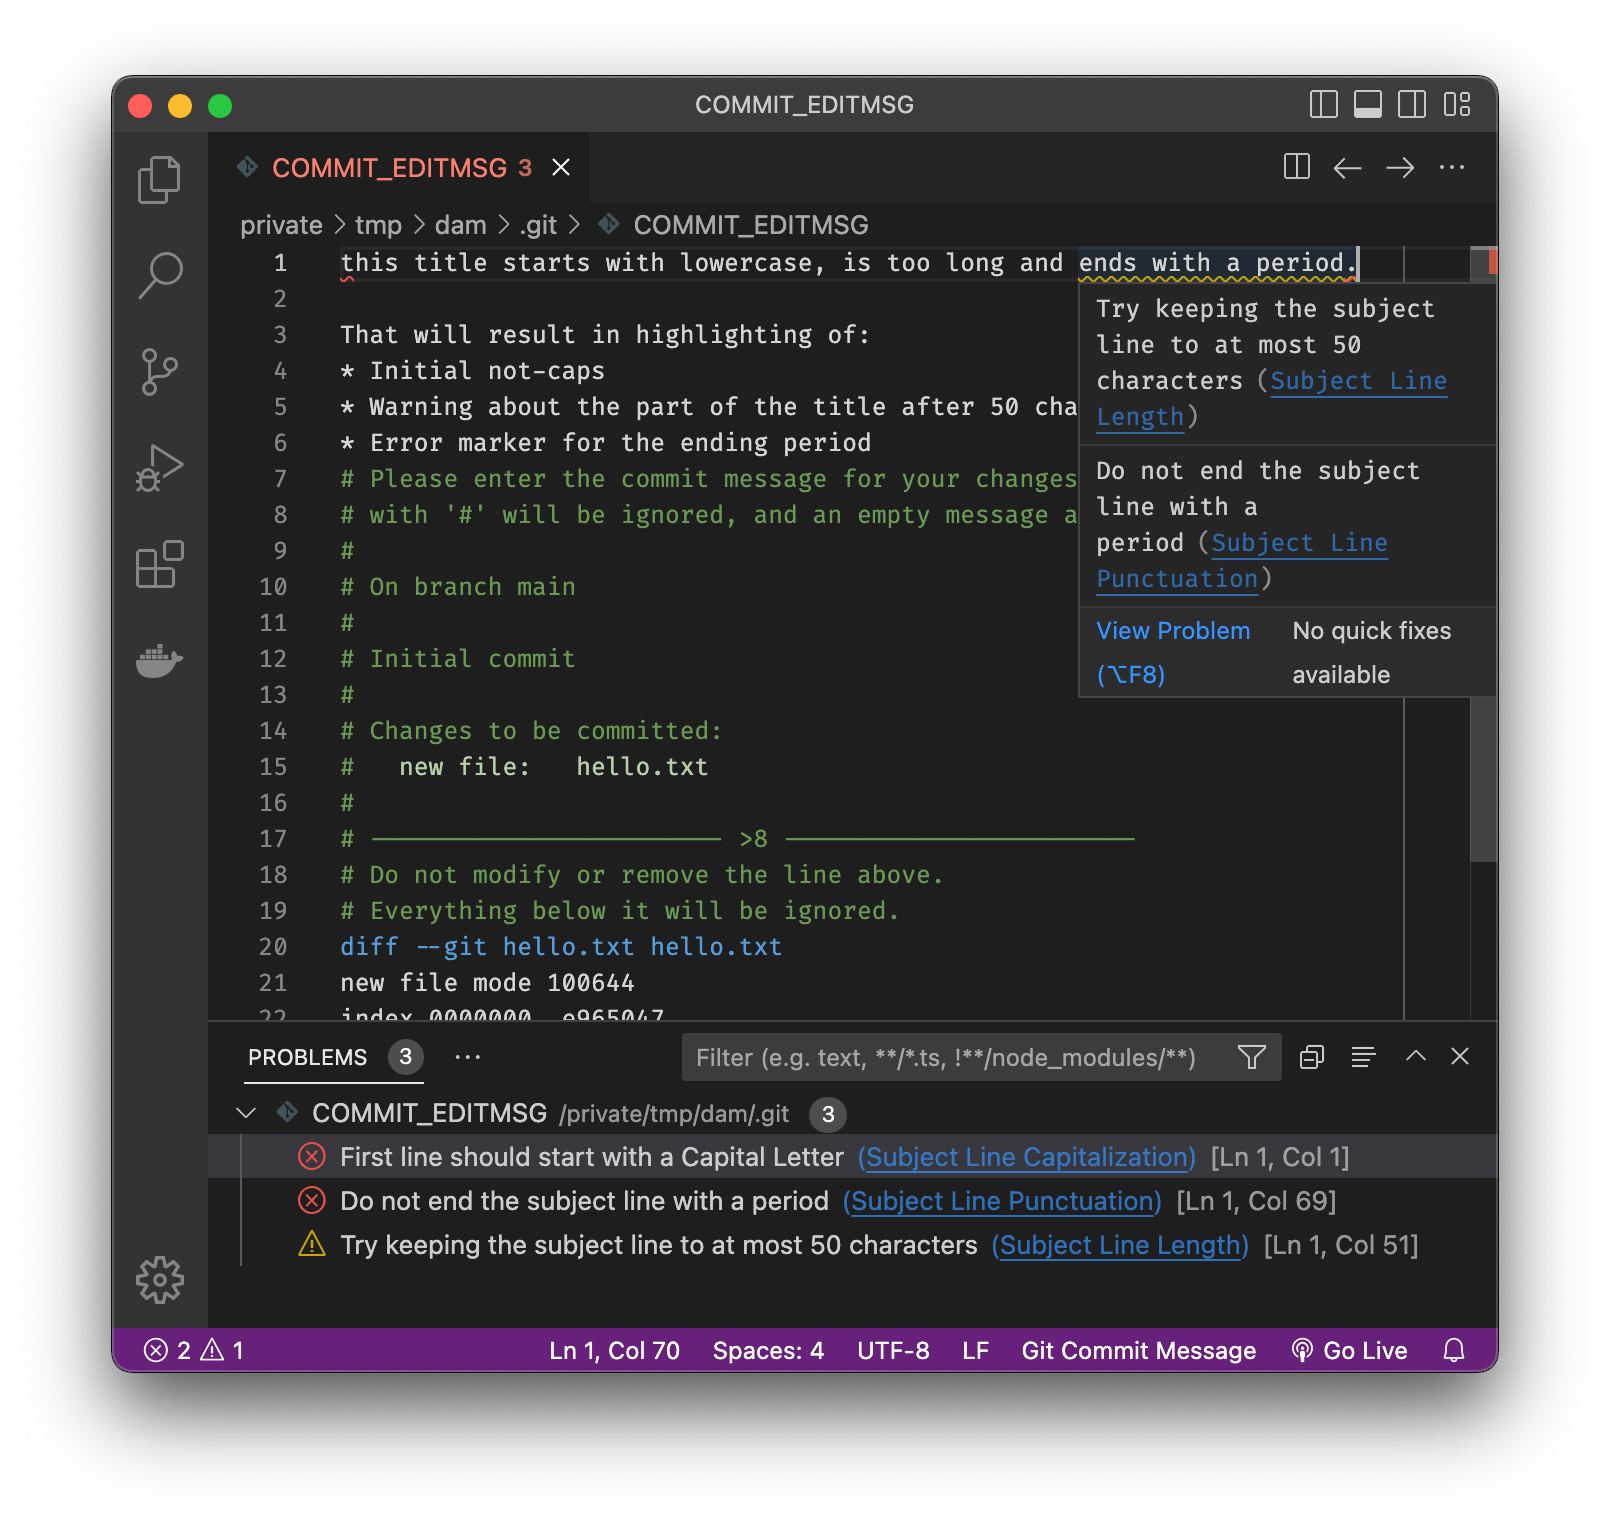
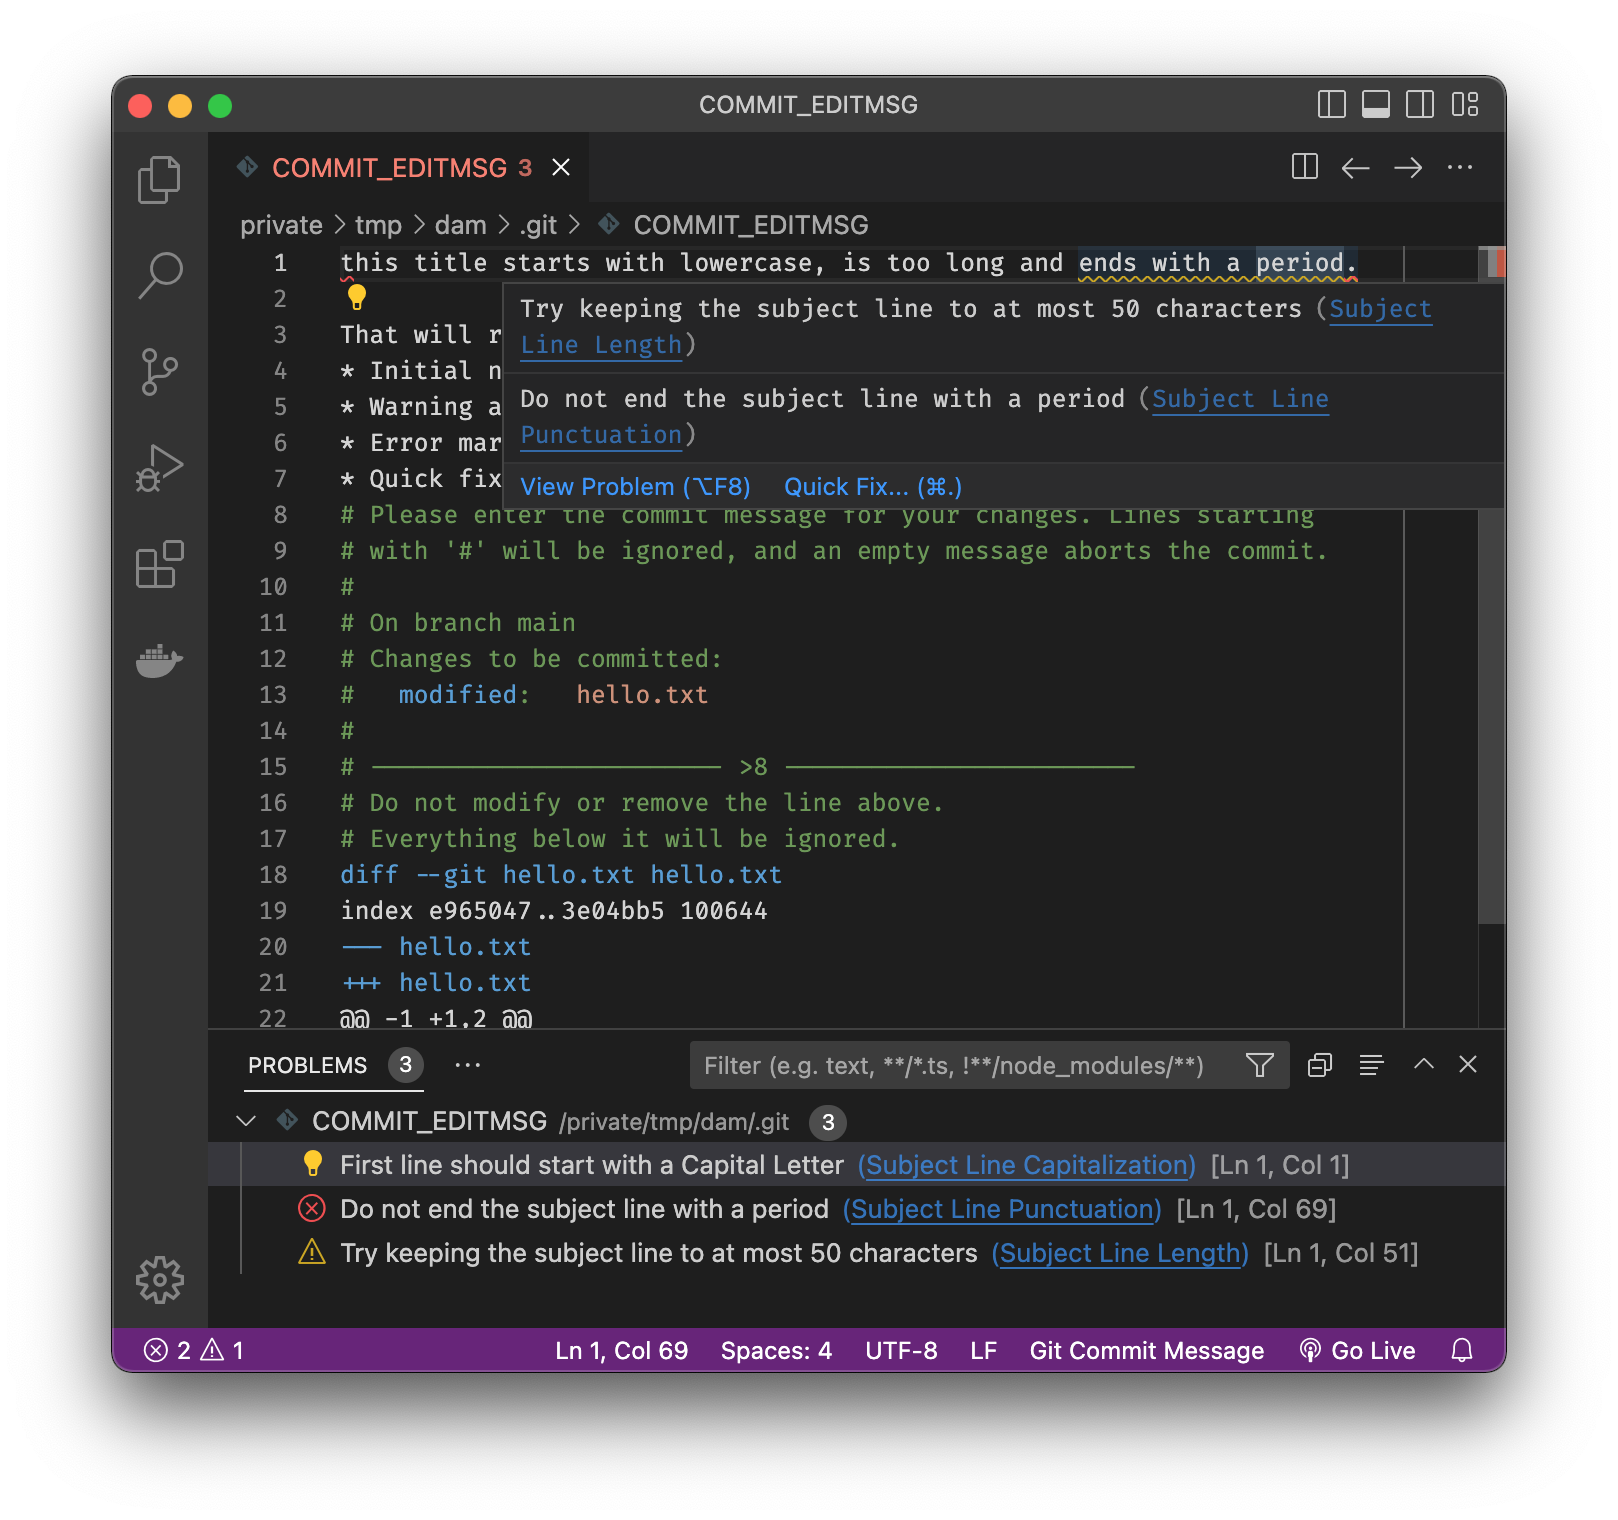
Update the screenshot

diff --git a/README.md b/README.md
@@ -28,7 +28,6 @@ Highlighting inspiration from <https://cbea.ms/git-commit>.
 
 ### TODO
 
-- Update the screenshot
 - Make an icon
 - Highlight current branch name in the Git metadata
 - Mark commit message subject line with:

diff --git a/images/README.md b/images/README.md
@@ -1,0 +1,3 @@
+# Images Directory
+
+The `COMMIT_EDITMSG` file is the one depicted in `screenshot.png`.
